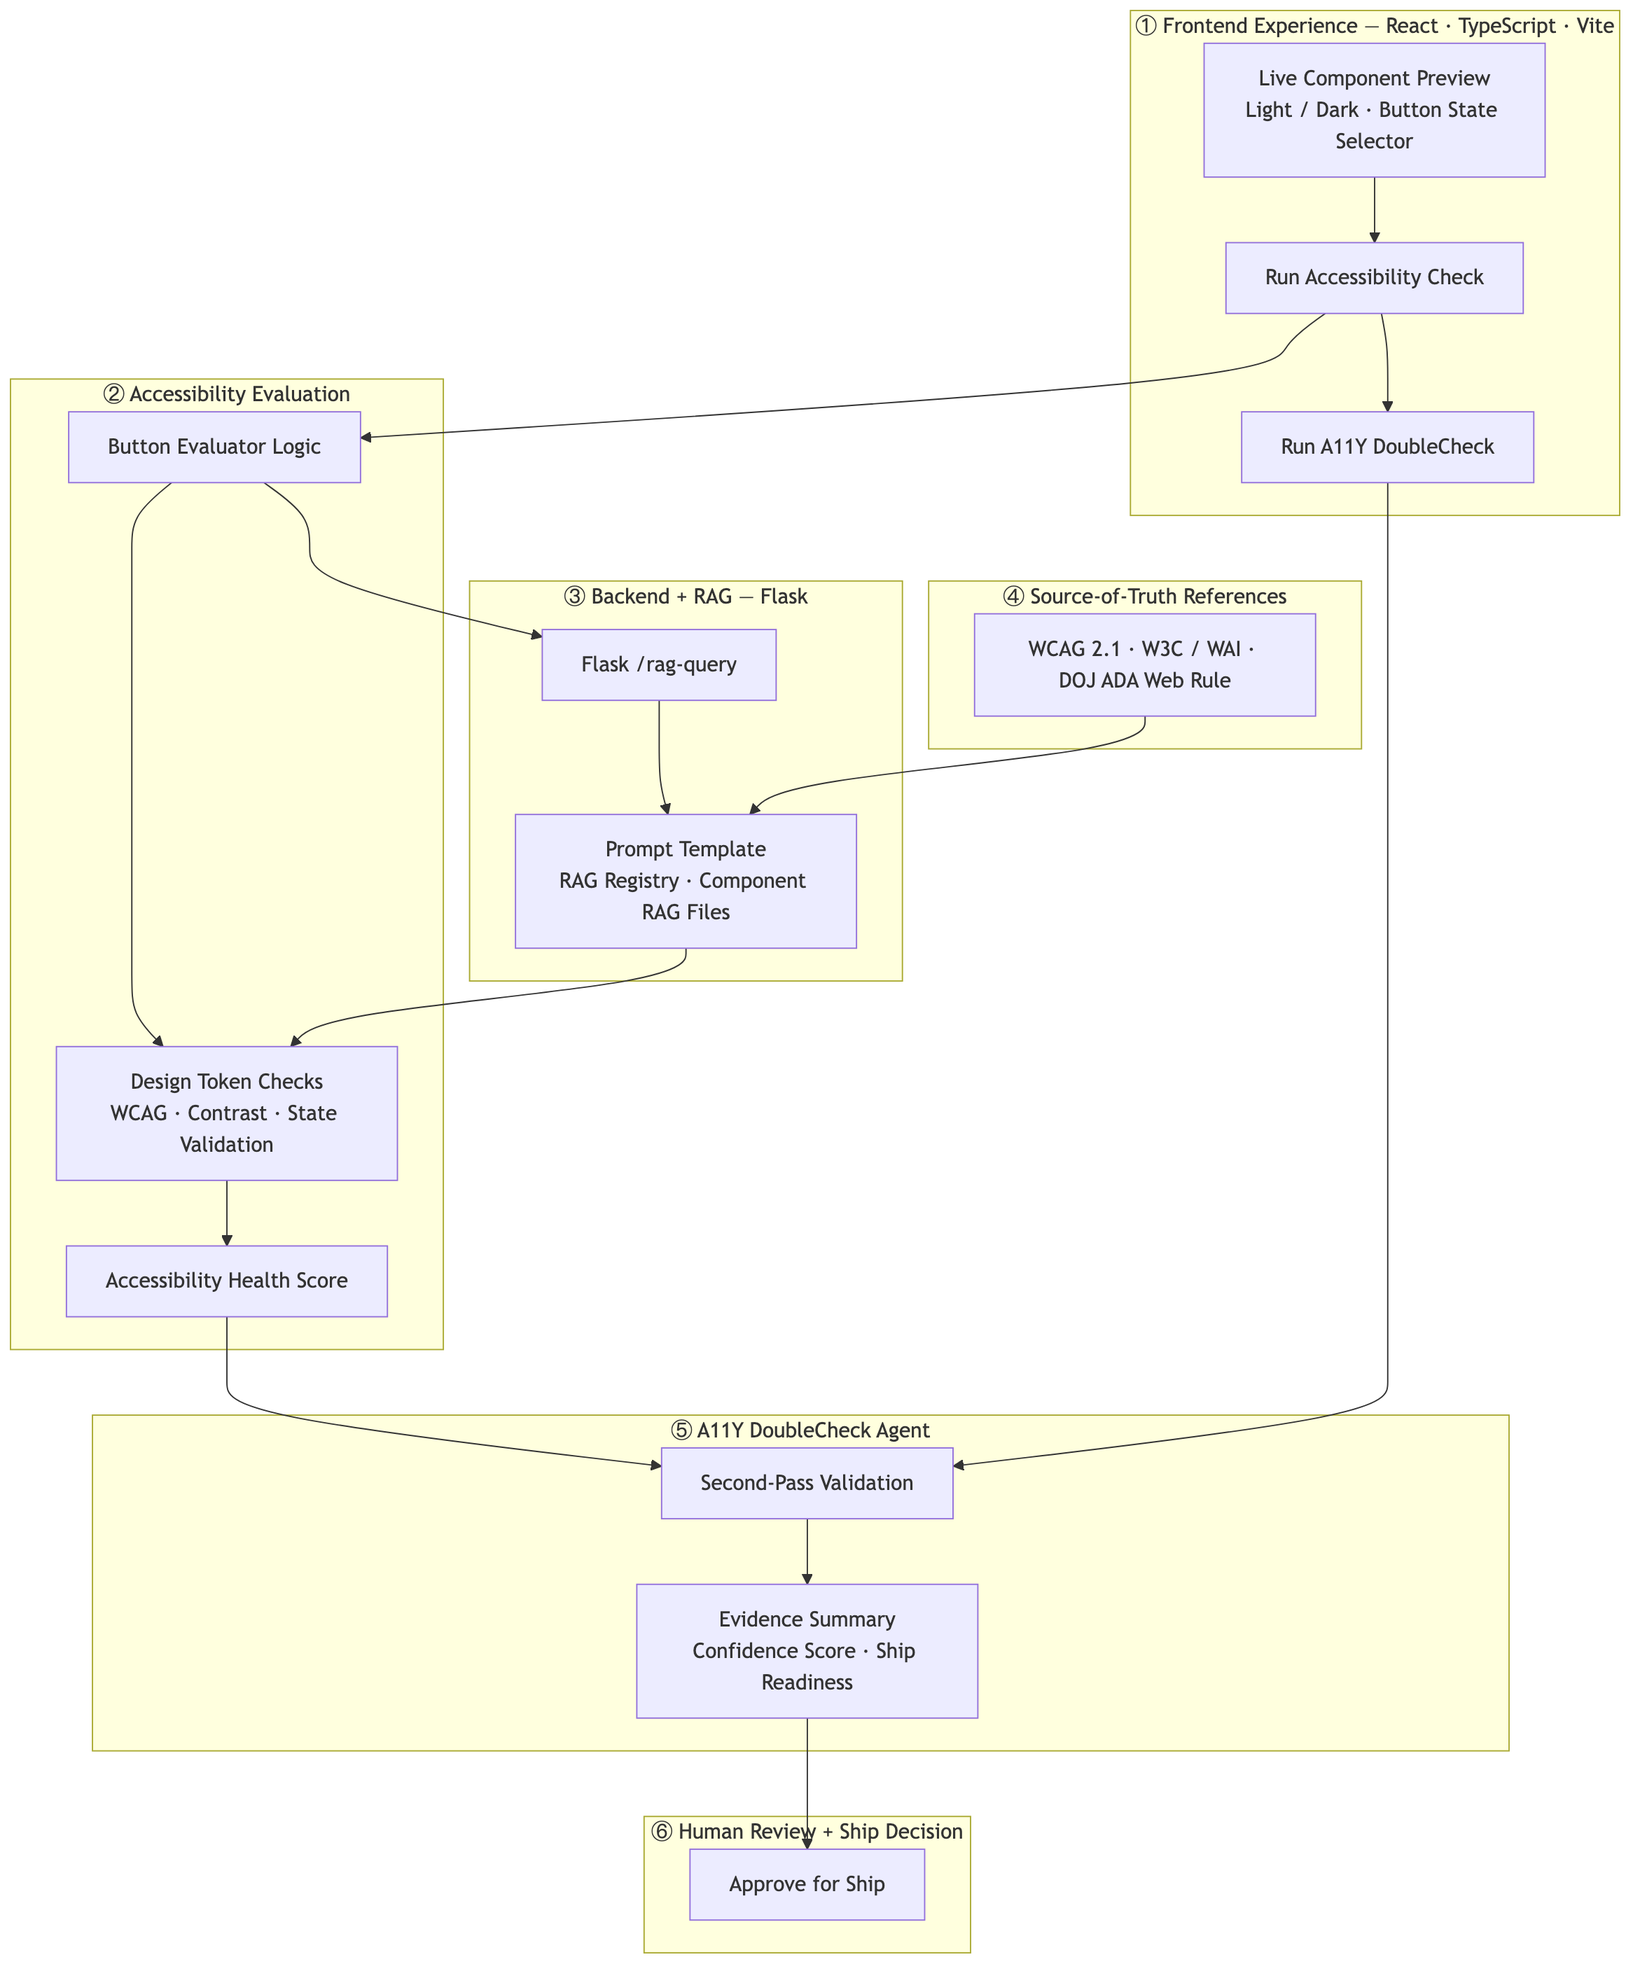
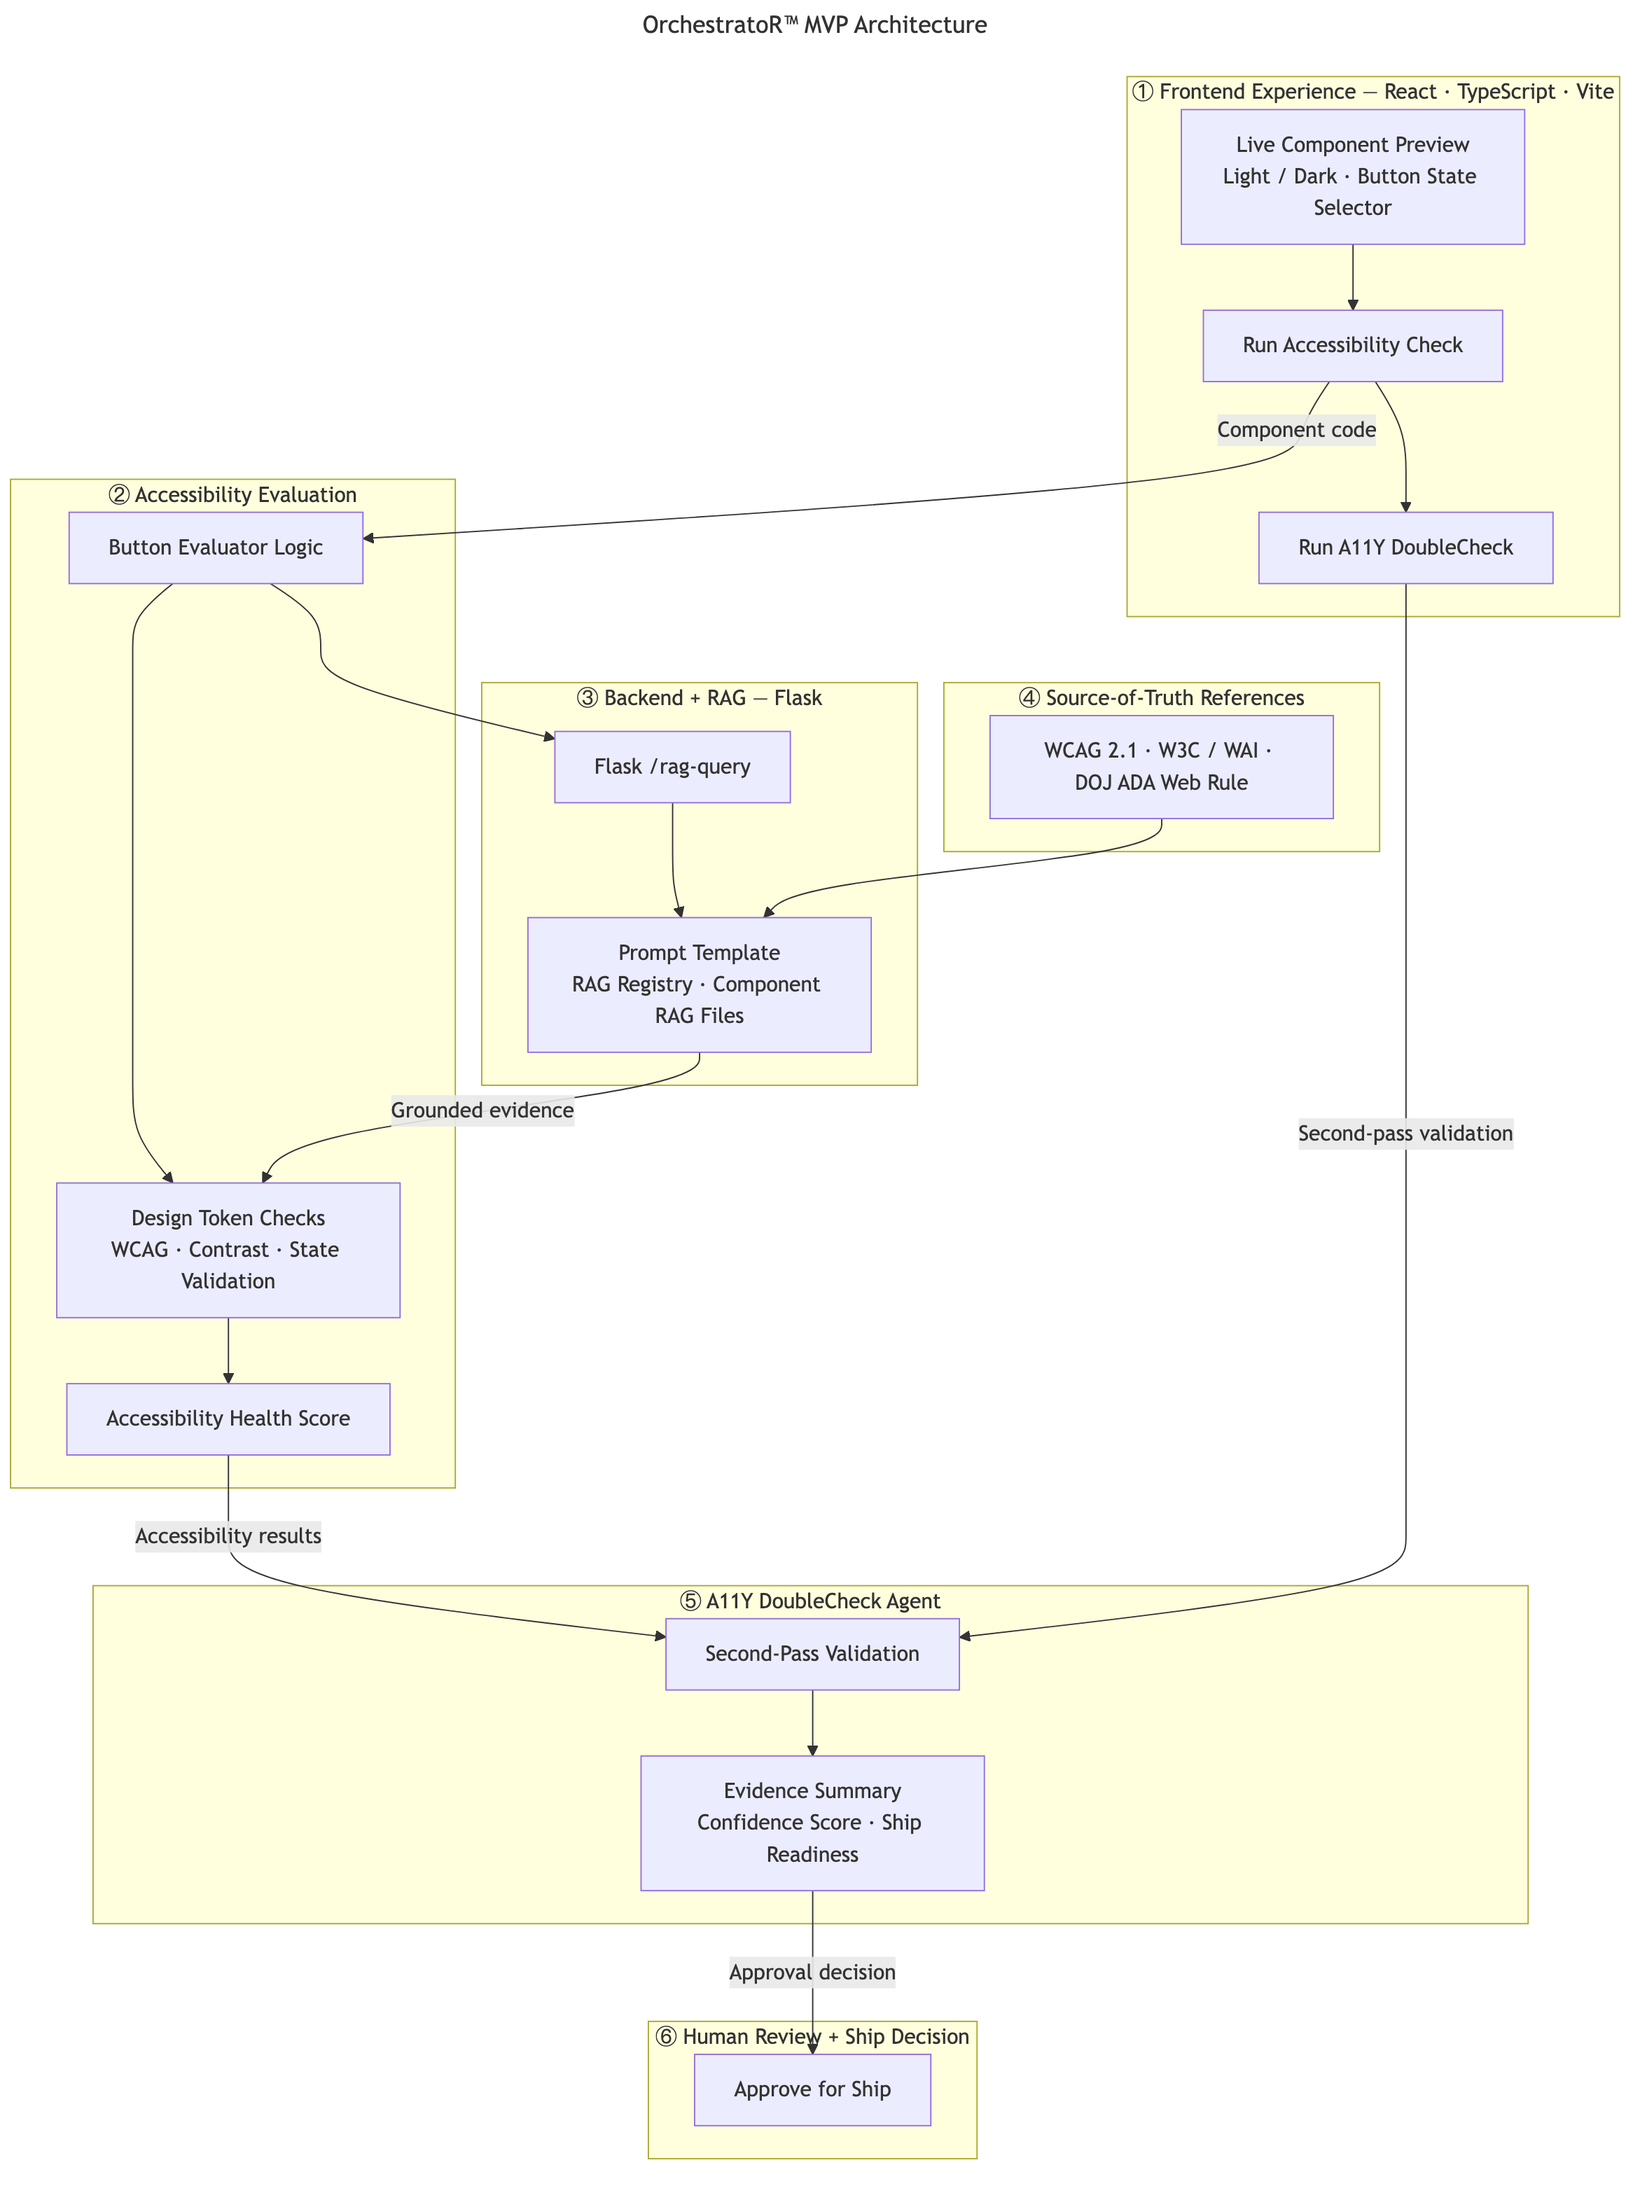
git commit -m "Backup 2026-05-24 - Add technical architecture diagrams for OrchestratoR"

diff --git a/docs/orchestrator-architecture-diagram.md b/docs/orchestrator-architecture-diagram.md
@@ -1,6 +1,13 @@
-# OrchestratoR™ — MVP Architecture Diagram
+**Technical Diagram**
+
+# OrchestratoR™ MVP Architecture
+
+> Markdown Summary Flow: Detect → Fix → DoubleCheck → Ship
 
 ```mermaid
+---
+title: "OrchestratoR™ MVP Architecture — AI Accessibility Evaluation + A11Y DoubleCheck Agent Flow"
+---
 %%{init: {'theme': 'default', 'themeVariables': {'fontSize': '16px'}}}%%
 flowchart TD
 
@@ -38,13 +45,13 @@ flowchart TD
     HR_APPR["Approve for Ship"]
   end
 
-  FE_CHECK --> EVAL_ENGINE
+  FE_CHECK -->|"Component code"| EVAL_ENGINE
   EVAL_ENGINE --> BE_API
   SOT_REFS --> BE_RAG
-  BE_RAG --> EVAL_CHECKS
-  EVAL_SCORE --> DC_PASS
-  FE_DC --> DC_PASS
-  DC_OUT --> HR_APPR
+  BE_RAG -->|"Grounded evidence"| EVAL_CHECKS
+  EVAL_SCORE -->|"Accessibility results"| DC_PASS
+  FE_DC -->|"Second-pass validation"| DC_PASS
+  DC_OUT -->|"Approval decision"| HR_APPR
 ```
 
 ## How it works
